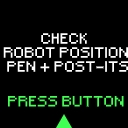
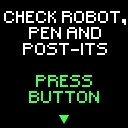
Smoother animations

Changed region(s): [[0.0, 0.0625, 1.0, 0.8438], [0.4375, 0.875, 0.5625, 1.0], [0.9375, 0.125, 1.0, 0.2188]]

diff --git a/lcd/lcd.py b/lcd/lcd.py
@@ -106,9 +106,9 @@ def display_image_based_on_state(LCD, state):
             "loop": True
         },
         "ResetPending": {
-            "images": ["assets/display/ResetPending-0.jpg"],
-            "display_time": 1,
-            "loop": False
+            "images": [f"assets/display/ResetPending-{i}.jpg" for i in range(0, 8)],
+            "display_time": 0.125,
+            "loop": True
         },
         "Template": {
             "images": ["assets/display/Test-0.jpg"],
